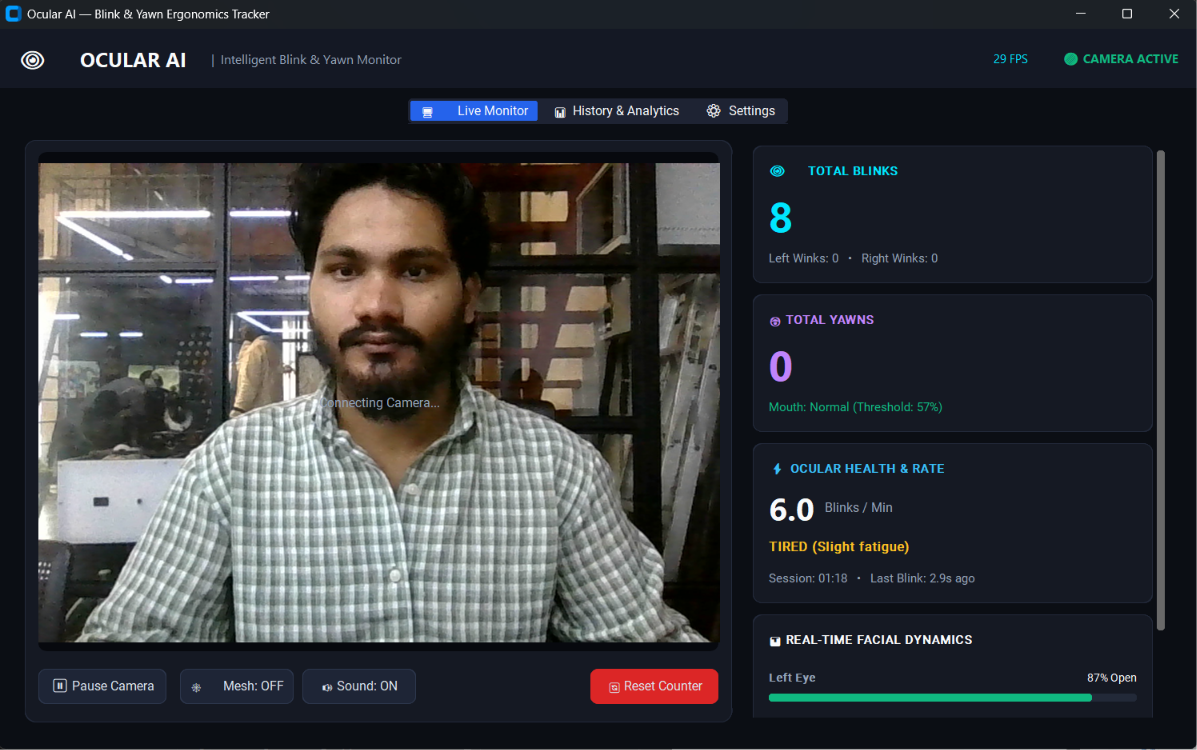
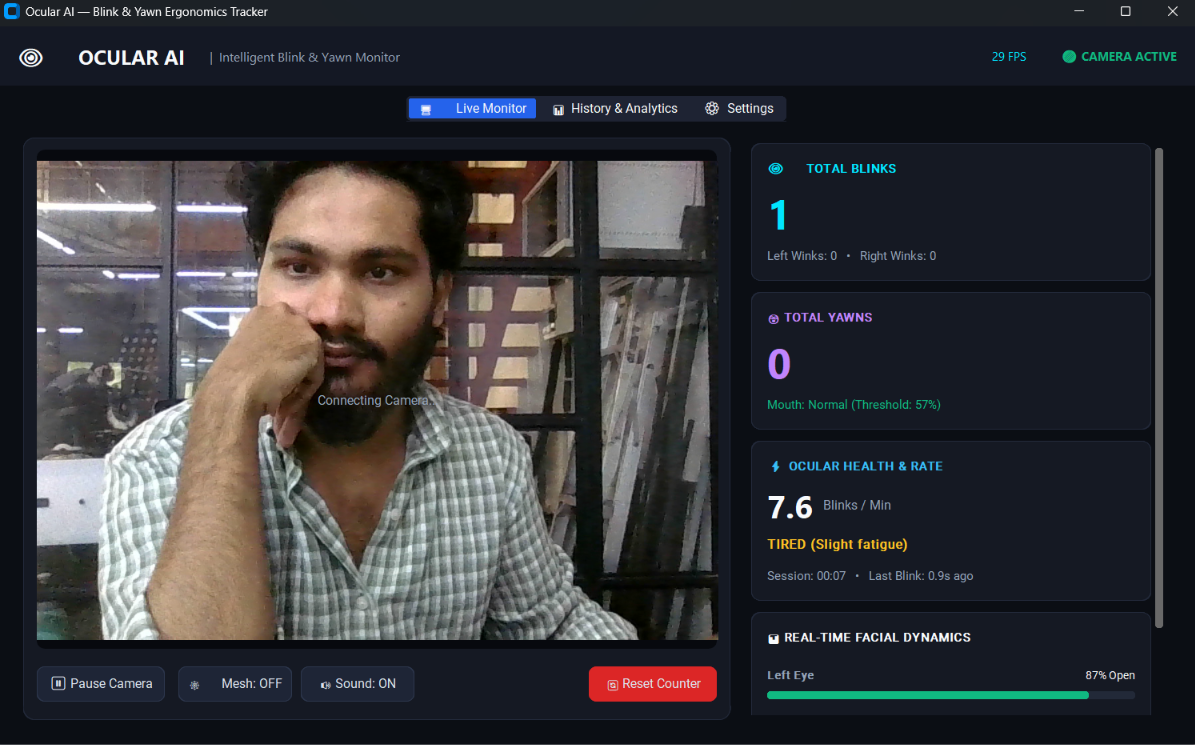
j

diff --git a/create_workflow_img.py b/create_workflow_img.py
@@ -1,0 +1,234 @@
+#!/usr/bin/env python3
+"""
+Script to generate the high-resolution architecture and pipeline workflow diagram
+for Ocular AI (saved as workflow.png).
+"""
+
+import matplotlib.pyplot as plt
+import matplotlib.patches as patches
+from matplotlib.patches import FancyBboxPatch, FancyArrowPatch
+import numpy as np
+
+def generate_diagram():
+    # Dimensions & DPI
+    fig_width = 20
+    fig_height = 10.5
+    fig, ax = plt.subplots(figsize=(fig_width, fig_height), dpi=200)
+    
+    # Background color
+    bg_color = "#0B0E17"
+    fig.patch.set_facecolor(bg_color)
+    ax.set_facecolor(bg_color)
+    
+    # Coordinate system 0 to 100 in X and Y
+    ax.set_xlim(0, 100)
+    ax.set_ylim(0, 100)
+    ax.axis("off")
+    
+    # --------------------------------------------------------------------------
+    # Header Section
+    # --------------------------------------------------------------------------
+    # Subtle badge
+    badge_box = FancyBboxPatch(
+        (3.5, 93.5), 23, 3.2,
+        boxstyle="round,pad=0.5,rounding_size=1.2",
+        facecolor="#161F33", edgecolor="#00E5FF", linewidth=1.2
+    )
+    ax.add_patch(badge_box)
+    ax.text(15, 94.8, "OCULAR AI  •  SYSTEM PIPELINE", color="#00E5FF",
+            fontsize=10.5, fontweight="bold", ha="center", va="center", family="sans-serif")
+    
+    # Main Title & Subtitle
+    ax.text(3.5, 89.2, "End-to-End Neural Detection & Storage Architecture",
+            color="#F8FAFC", fontsize=22, fontweight="bold", ha="left", va="center", family="sans-serif")
+    ax.text(3.5, 85.5, "Real-time 30 FPS webcam processing, MediaPipe FaceLandmarker, speech-immune ensemble filter, and SQLite analytics",
+            color="#94A3B8", fontsize=11.5, ha="left", va="center", family="sans-serif")
+
+    # --------------------------------------------------------------------------
+    # Pipeline Stages (5 Horizontal Cards)
+    # --------------------------------------------------------------------------
+    stages = [
+        {
+            "num": "01",
+            "title": "VIDEO CAPTURE",
+            "tech": "OpenCV Engine",
+            "color": "#00E5FF",
+            "bg": "#121826",
+            "border": "#1E293B",
+            "items": [
+                ("Input Source", "HD Webcam (Device 0/1)"),
+                ("Capture Rate", "30 FPS @ 1280x720"),
+                ("Color Space", "BGR to RGB Matrix"),
+                ("Frame Mirror", "Horizontal cv2.flip(1)"),
+                ("Worker Thread", "Non-blocking ThreadQueue"),
+                ("Latency Cap", "Zero frame accumulation")
+            ]
+        },
+        {
+            "num": "02",
+            "title": "NEURAL INFERENCE",
+            "tech": "MediaPipe Tasks",
+            "color": "#38BDF8",
+            "bg": "#121826",
+            "border": "#1E293B",
+            "items": [
+                ("Core Model", "face_landmarker.task"),
+                ("Delegate", "XNNPACK CPU Accel"),
+                ("Dense Mesh", "478 3D Surface Points"),
+                ("Blendshapes", "52 Facial Muscle Weights"),
+                ("Eyelid Blend", "eyeBlinkLeft & Right"),
+                ("Jaw Opening", "jawOpen Blendshape")
+            ]
+        },
+        {
+            "num": "03",
+            "title": "FEATURE EXTRACTION",
+            "tech": "Hybrid MAR + EAR",
+            "color": "#C084FC",
+            "bg": "#121826",
+            "border": "#1E293B",
+            "items": [
+                ("Inner Lip MAR", "||p13 - p14|| / ||p61 - p291||"),
+                ("Lip Contours", "Outer (20pts) Inner (20pts)"),
+                ("Mouth Score", "max(jawOpen, MAR * 1.10)"),
+                ("Debounce EAR", "Continuous 60s Window"),
+                ("Iris Tracking", "Pupil Centers 468 & 473"),
+                ("Noise Filter", "Micro-jitter rejection")
+            ]
+        },
+        {
+            "num": "04",
+            "title": "STATE MACHINE",
+            "tech": "Speech-Immune Filter",
+            "color": "#FBBF24",
+            "bg": "#121826",
+            "border": "#1E293B",
+            "items": [
+                ("Blink Debounce", "40ms - 600ms Hysteresis"),
+                ("Wink Detection", "Independent Left / Right"),
+                ("Speech Filter", "15% - 35% mouth ignored"),
+                ("Yawn Trigger", "Wide mouth >= 58%"),
+                ("Continuous Hold", ">= 1.30s uninterrupted"),
+                ("Flutter Reset", "Instant reset on talking")
+            ]
+        },
+        {
+            "num": "05",
+            "title": "OUTPUT & STORAGE",
+            "tech": "CustomTkinter + SQLite",
+            "color": "#10B981",
+            "bg": "#121826",
+            "border": "#1E293B",
+            "items": [
+                ("GUI Viewport", "Centered letterbox label"),
+                ("Sidebar (400px)", "Blink, Yawn & BPM cards"),
+                ("Audio Daemon", "winsound 1400Hz/680Hz"),
+                ("SQLite Database", "data/blink_history.db"),
+                ("Analytics View", "Lifetime stats & CSV export"),
+                ("Safe Clear", "Atomic confirmation wipe")
+            ]
+        }
+    ]
+
+    card_width = 16.8
+    card_height = 64
+    card_y = 17
+    card_spacing = 2.4
+    start_x = 3.5
+
+    for i, s in enumerate(stages):
+        x = start_x + i * (card_width + card_spacing)
+        
+        # Outer Card Box
+        card = FancyBboxPatch(
+            (x, card_y), card_width, card_height,
+            boxstyle="round,pad=0.6,rounding_size=1.5",
+            facecolor=s["bg"], edgecolor=s["color"], linewidth=1.5
+        )
+        ax.add_patch(card)
+        
+        # Inner Card Header Background
+        header_patch = FancyBboxPatch(
+            (x + 0.4, card_y + card_height - 10.5), card_width - 0.8, 9.5,
+            boxstyle="round,pad=0.4,rounding_size=1.0",
+            facecolor="#1A2234", edgecolor="none"
+        )
+        ax.add_patch(header_patch)
+
+        # Stage Number Badge
+        num_badge = FancyBboxPatch(
+            (x + 1.2, card_y + card_height - 7.5), 3.2, 4.2,
+            boxstyle="round,pad=0.3,rounding_size=0.8",
+            facecolor=s["color"], edgecolor="none"
+        )
+        ax.add_patch(num_badge)
+        ax.text(x + 2.8, card_y + card_height - 5.4, s["num"],
+                color="#0B0E17", fontsize=11, fontweight="bold", ha="center", va="center", family="sans-serif")
+        
+        # Stage Titles
+        ax.text(x + 5.2, card_y + card_height - 4.2, s["title"],
+                color="#F8FAFC", fontsize=10.5, fontweight="bold", ha="left", va="center", family="sans-serif")
+        ax.text(x + 5.2, card_y + card_height - 7.5, s["tech"],
+                color=s["color"], fontsize=9, fontweight="bold", ha="left", va="center", family="sans-serif")
+
+        # Feature List
+        cur_y = card_y + card_height - 14.5
+        for label, val in s["items"]:
+            # Bullet Dot
+            ax.plot(x + 1.6, cur_y + 0.5, marker="o", markersize=4, color=s["color"])
+            # Label
+            ax.text(x + 2.8, cur_y + 1.2, label, color="#F1F5F9", fontsize=9.2, fontweight="bold", family="sans-serif")
+            # Description
+            ax.text(x + 2.8, cur_y - 1.8, val, color="#94A3B8", fontsize=8.2, family="sans-serif")
+            cur_y -= 8.2
+
+        # Draw connecting flow arrows between cards
+        if i < len(stages) - 1:
+            arrow_x_start = x + card_width + 0.5
+            arrow_x_end = arrow_x_start + card_spacing - 1.0
+            arrow_y = card_y + card_height / 2
+            
+            arrow = FancyArrowPatch(
+                (arrow_x_start, arrow_y), (arrow_x_end, arrow_y),
+                arrowstyle="-|>", mutation_scale=14,
+                color="#00E5FF", linewidth=2.0
+            )
+            ax.add_patch(arrow)
+
+    # --------------------------------------------------------------------------
+    # Bottom Technical Spec Ribbon
+    # --------------------------------------------------------------------------
+    ribbon_box = FancyBboxPatch(
+        (3.5, 3.8), 93, 7.5,
+        boxstyle="round,pad=0.5,rounding_size=1.2",
+        facecolor="#121826", edgecolor="#232A3B", linewidth=1.2
+    )
+    ax.add_patch(ribbon_box)
+
+    plt.rcParams['font.family'] = 'sans-serif'
+    plt.rcParams['font.sans-serif'] = ['Segoe UI', 'Arial', 'DejaVu Sans']
+
+    specs = [
+        ("• Real-Time Ingestion", "30 FPS @ 720p with threading"),
+        ("• Neural Landmarks", "478 3D points + 52 blendshapes"),
+        ("• Speech-Immunity", "58% threshold + 1.3s hold"),
+        ("• Fatigue Analytics", "Rolling BPM & Drowsiness status"),
+        ("• SQLite Storage", "Auto-save & CSV export")
+    ]
+
+    rx = 5.5
+    for title, desc in specs:
+        ax.text(rx, 8.4, title, color="#00E5FF", fontsize=9.8, fontweight="bold", family="sans-serif")
+        ax.text(rx, 5.6, desc, color="#94A3B8", fontsize=8.5, family="sans-serif")
+        rx += 18.6
+        if rx < 90:
+            ax.plot([rx - 2.5, rx - 2.5], [4.8, 10.2], color="#232A3B", linewidth=1.5)
+
+    plt.tight_layout()
+    output_path = "workflow.png"
+    plt.savefig(output_path, facecolor=bg_color, edgecolor="none", dpi=200, bbox_inches="tight")
+    plt.close()
+    print(f"[Success] Workflow diagram generated: {output_path}")
+
+if __name__ == "__main__":
+    generate_diagram()

diff --git a/README.md b/README.md
@@ -1,4 +1,4 @@
-<img width="1280" alt="readme-banner" src="https://github.com/user-attachments/assets/35332e92-44cb-425b-9dff-27bcf1023c6c">
+<img width="1280" height="640" alt="git (1)" src="https://github.com/user-attachments/assets/8920b256-2ba8-4988-b824-5351134eb4bd" />
 
 # Ocular AI. 🎯
 
@@ -49,7 +49,7 @@ pip install -r requirements.txt
 # Run
 - Double-click `Launch_App.bat` or the desktop shortcut
 - Or run in terminal: `python gui_app.py`
-- Or run windowed mode (no console): `pythonw app.pyw`
+- Or run windowed mode (no console): `python app.pyw`
 - Or run the classic HUD mode: `python blink_counter.py`
 
 ### Project Documentation
